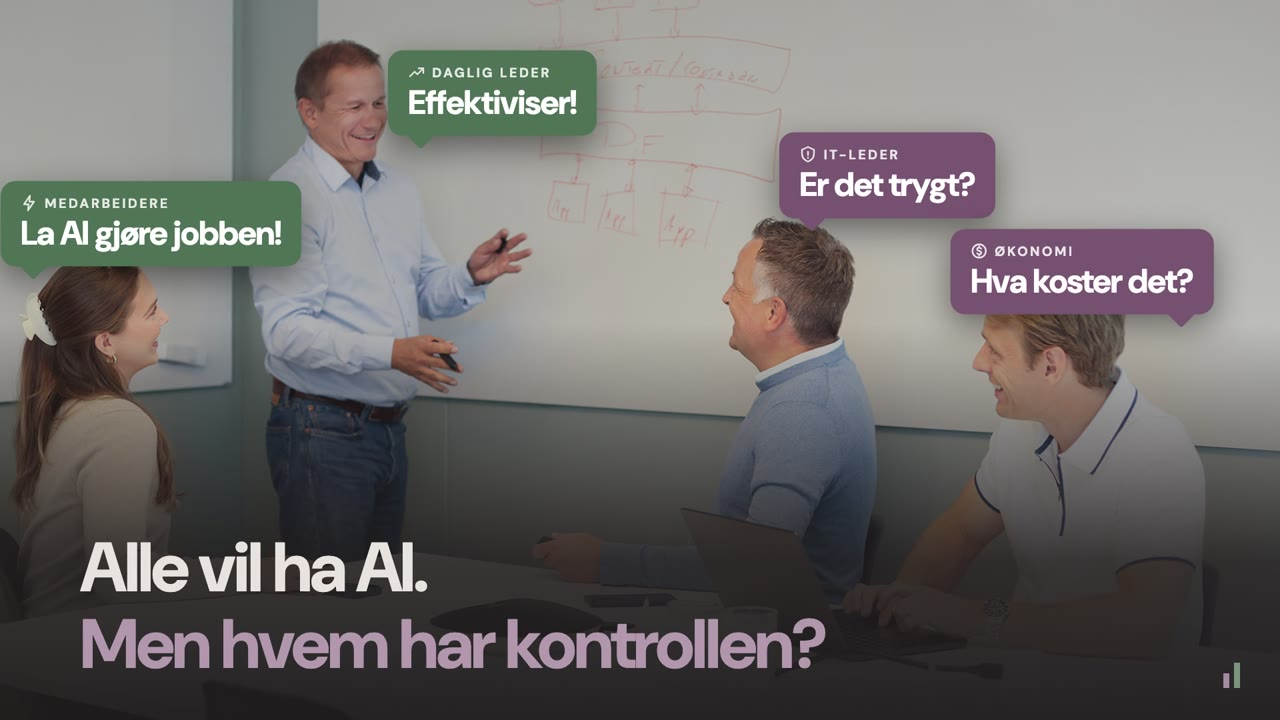
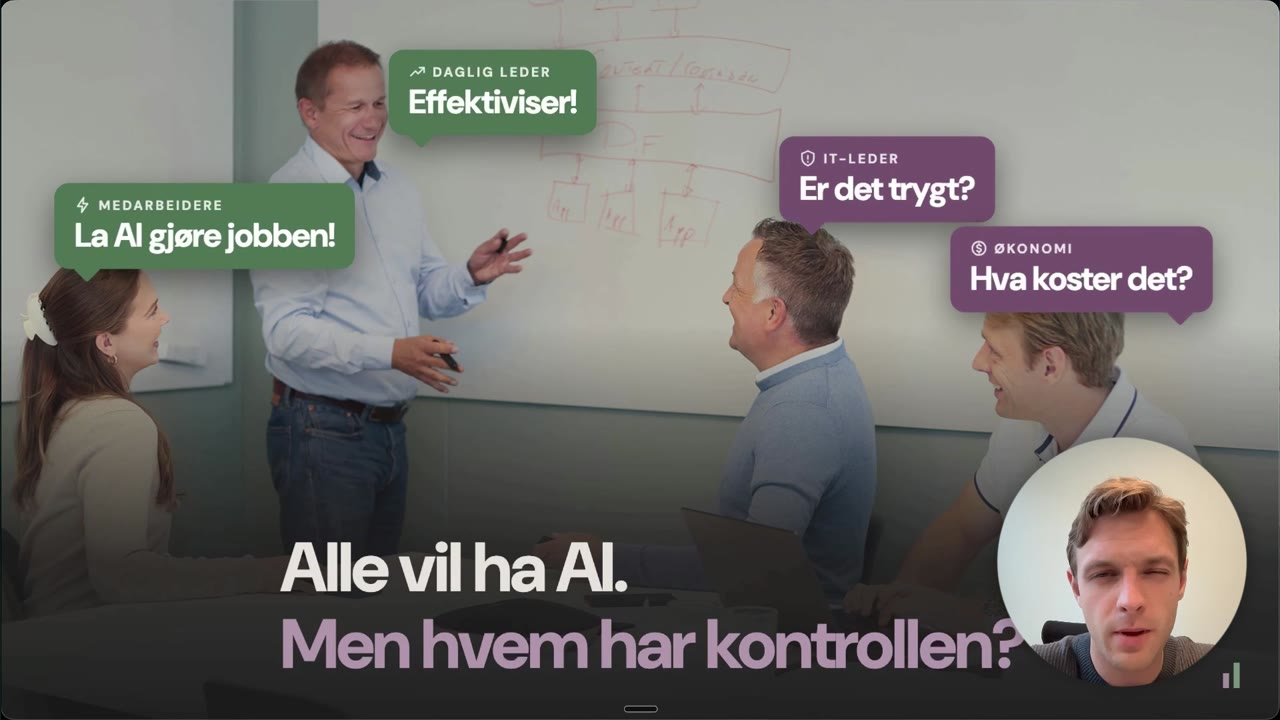
Bytt til den nye filmen «AI kontroll» på /ai-kontroll.
Filmen er ett minutt lang, så avspillingsknappen sier det. Plakatbildet er hentet fra den nye filmen ved 15 sekunder.

diff --git a/lib/content/aiControl.ts b/lib/content/aiControl.ts
@@ -19,10 +19,10 @@ export const aiControl = {
     lead: "Se hvordan dere gir AI riktig kontekst, definerte fullmakter og sporbarhet, på systemene dere allerede har.",
   },
   video: {
-    src: "https://26258430.fs1.hubspotusercontent-eu1.net/hubfs/26258430/incrementi_ai_kontroll_voice_1920x1080.mp4",
+    src: "https://26258430.fs1.hubspotusercontent-eu1.net/hubfs/26258430/AI%20kontroll.mp4",
     poster: "/media/video/ai-kontroll-poster.jpg",
     label: "Film: AI Operations & Control Layer",
-    play: "Spill av filmen (33 sekunder, med lyd)",
+    play: "Spill av filmen (1 minutt, med lyd)",
   },
   logosLabel: "Utvalgte kunder",
   sections: [
